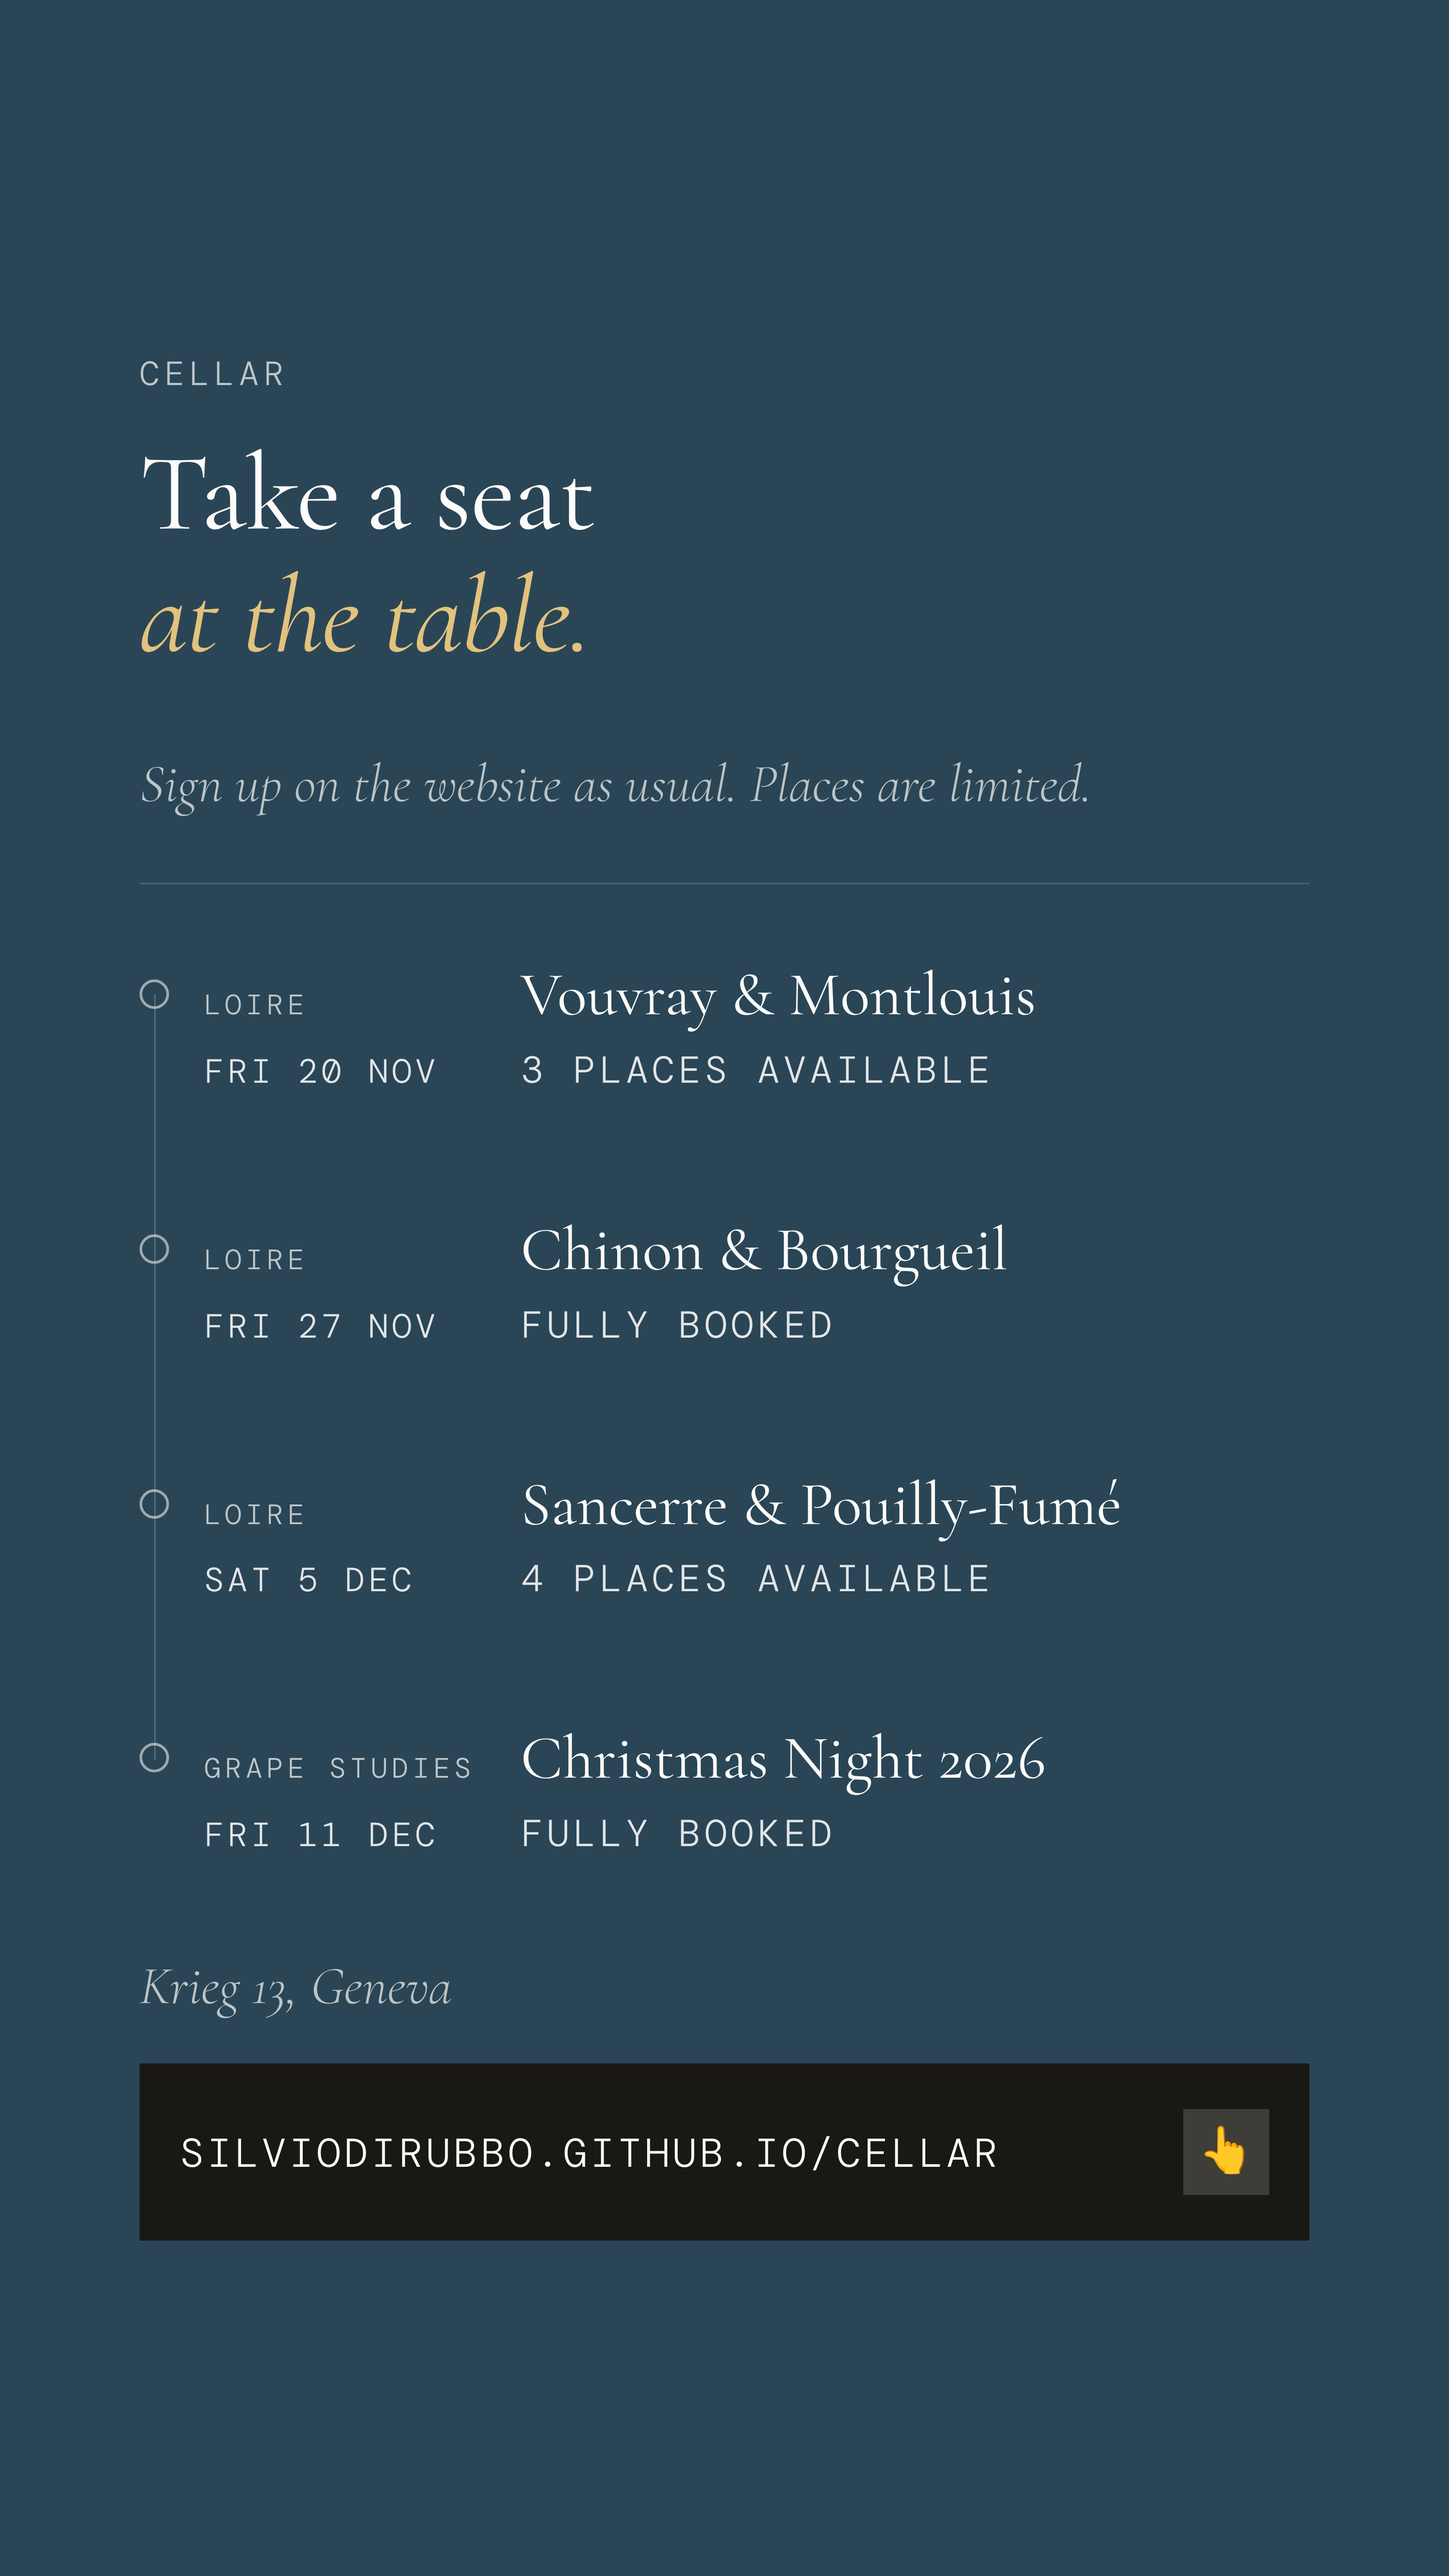
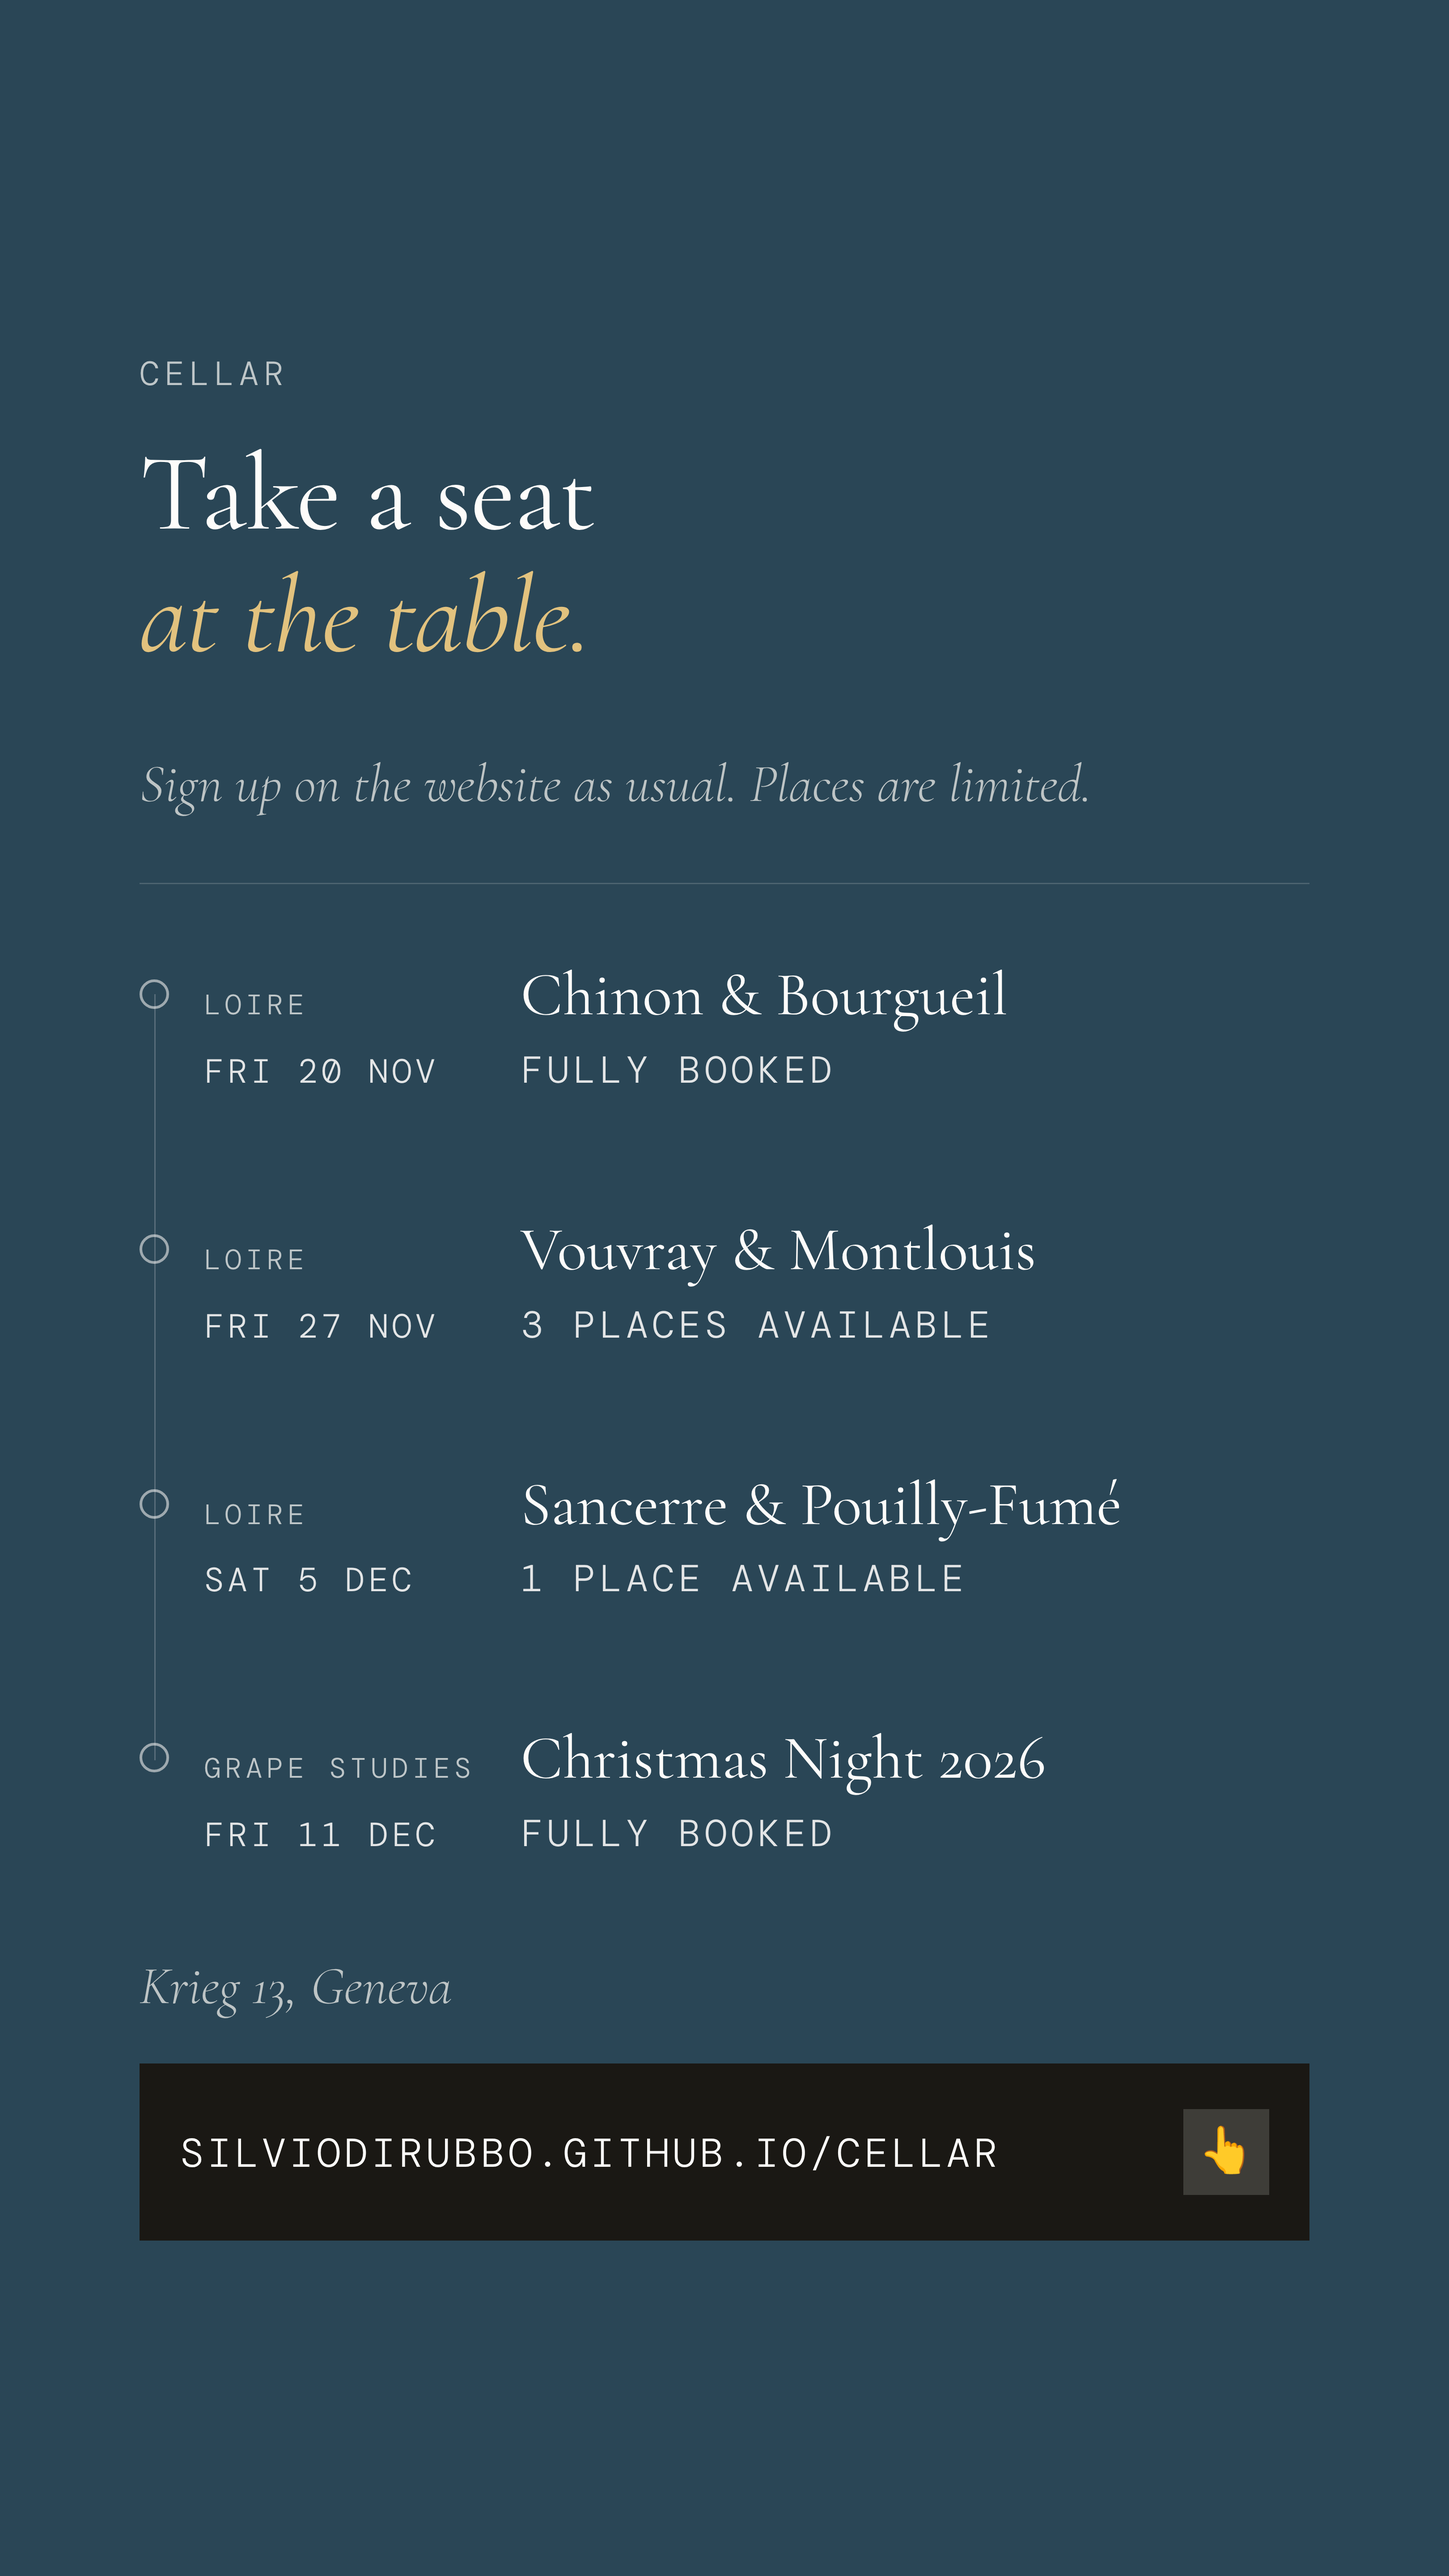
Stories 27 and 30 re-rendered for the Chinon and Vouvray swap
Story 30: "Next Friday", with the sparkling opening the line ("a
sparkling, then dry, off-dry and sweet Chenin"); its details now read
Fri 27 Nov from the data. Story 27 lists Chinon & Bourgueil (Fri 20
Nov) before Vouvray & Montlouis (Fri 27 Nov); the five 2027 slots join
its skip list so the slide keeps its four rows. Only these two PNGs
re-rendered.

Claude-Session: https://claude.ai/code/session_01V8kbmJeJHsKBXsm8ynaoNX

Changed region(s): [[0.3741, 0.4688, 0.717, 0.5312], [0.3741, 0.375, 0.717, 0.4375], [0.5299, 0.5938, 0.6235, 0.625]]

diff --git a/assets/social/instagram/stories/src/story-30-vouvray-montlouis-teaser.html b/assets/social/instagram/stories/src/story-30-vouvray-montlouis-teaser.html
@@ -12,8 +12,9 @@ hook: "Same grape, same river,"
 hook_em: "different sweetness."
 plain: true
 body:
-  - "This Friday we play with sweetness: dry, off-dry"
-  - "and sweet Chenin, from both banks of the Loire."
+  - "Next Friday we play with sweetness: a sparkling,"
+  - "then dry, off-dry and sweet Chenin, from both"
+  - "banks of the Loire."
 city: "Geneva"
 chapter_tag: true
 show_places: true

diff --git a/assets/social/instagram/stories/src/story-27-upcoming-tastings.html b/assets/social/instagram/stories/src/story-27-upcoming-tastings.html
@@ -10,5 +10,10 @@ hook_em: "at the table."
 intro: "Sign up on the website as usual. Places are limited."
 skip_slugs:
   - gsm-across-regions
+  - tbd-2027-01-08
+  - tbd-2027-01-15
+  - tbd-2027-01-29
+  - tbd-2027-02-12
+  - tbd-2027-02-26
 venue: "Krieg 13, Geneva"
 ---
